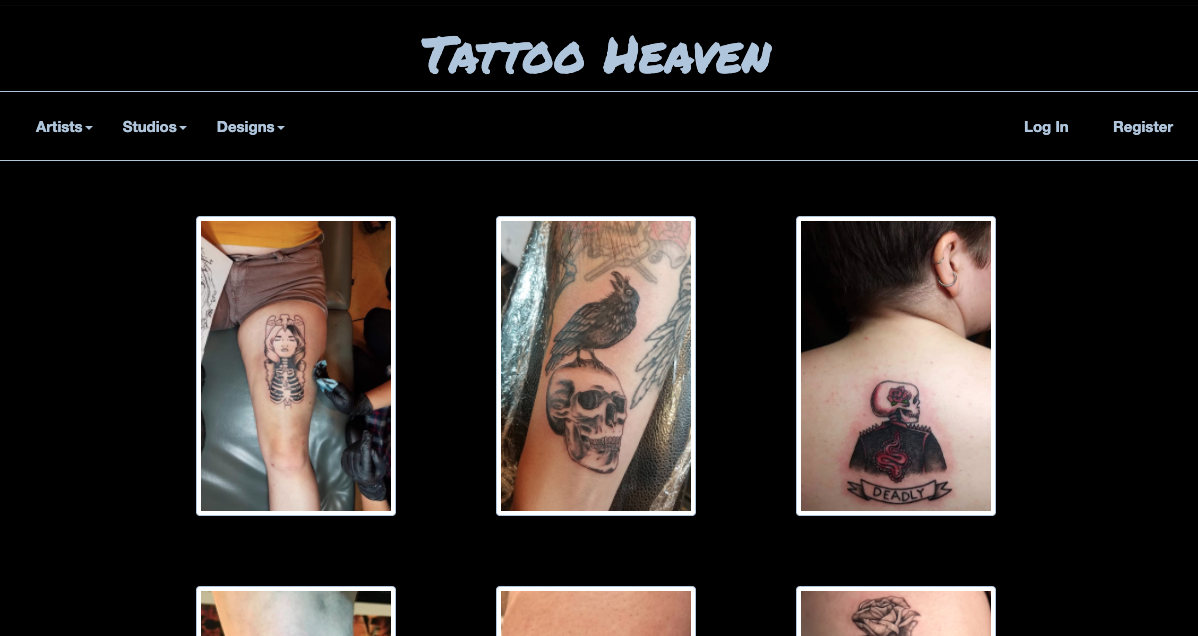
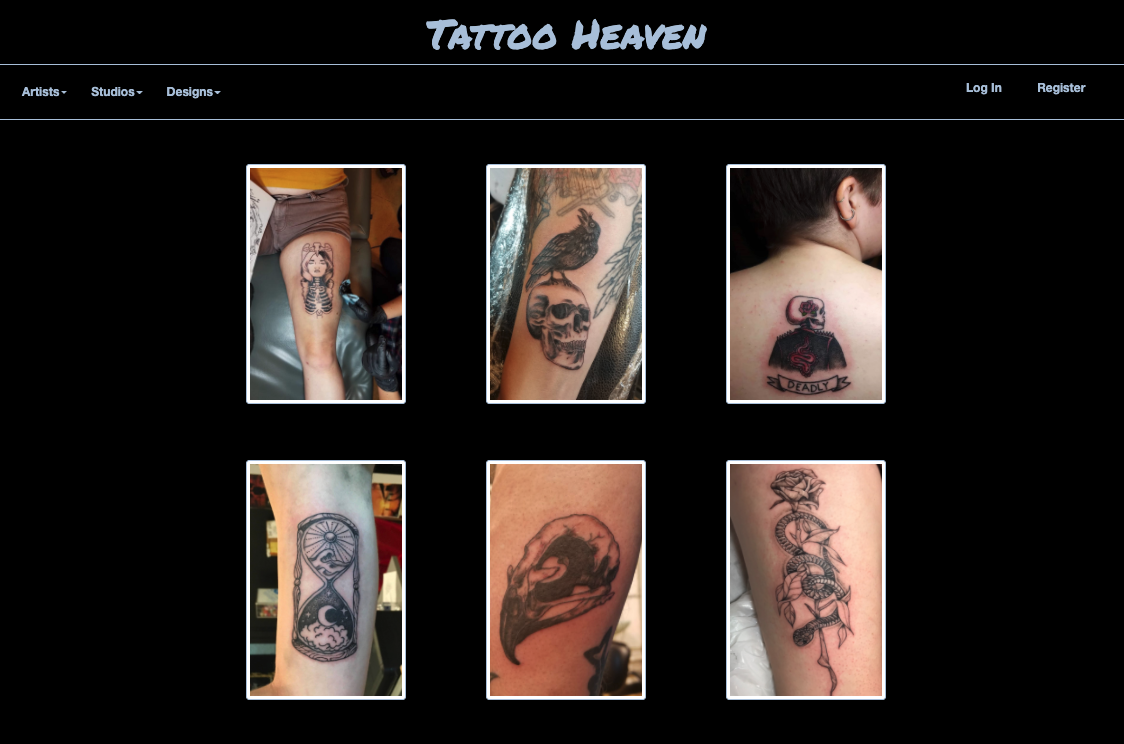
Version one complete

diff --git a/beccakingwebdev.info/index.html b/beccakingwebdev.info/index.html
@@ -3,33 +3,79 @@
   <head>
     <meta charset="utf-8">
     <meta name="viewport" content="width=device-width, initial-scale=1.0">
-    <link rel="stylesheet" href="style.css" type="text/css">
+    <link rel="stylesheet" href="style.css?v=3" type="text/css">
     <link rel="preconnect" href="https://fonts.gstatic.com">
     <link href="https://fonts.googleapis.com/css2?family=Courgette&family=Open+Sans:ital,wght@0,300;0,400;0,600;0,700;1,300;1,400;1,600;1,700&display=swap" rel="stylesheet">
   </head>
   <body>
     <header>
         <h1>Becca King</h1>
-        <h2>Web Developer</h2>
+        <h2>Web Development Portfolio</h2>
+        <a href='./Resume_RebeccaKing.pdf' id='resume'><h3>View Resume</h3></a>
     </header>
     <main>
-        <a href='mailto:rebecca.lynne.king@gmail.com'></a>
-        <a href='./Resume_RebeccaKing.pdf'><h3>Resume</h3></a>
-        <h3>Portfolio</h3>
         <div class='square'>
-          <a href="https://amerimark.com/apparel/shop.html"><iframe src='./images/AmerimarkFilterSort.MP4'></iframe></a>
-          <a href="https://www.amerimark.com/152231.html"><img src='./images/AmerimarkReviews.png' alt='Amerimark Product Review Section'></a>
-          <a href="https://www.amerimark.com/152231.html"><img src='./images/AmerimarkReviewsMobile.png' alt='Amerimark Product Review Section, Mobile'></a>
           <div id='Amerimark'>
-          Full-stack web development using Progress Openedge, JavaScript, CSS, Less, and jQuery.
-          Set up tracking tags in Google Tag Manager and integrated third-party scripts and APIs.
-          Work directly with web designers, information technologists, and E-commerce professionals to bring visions to life.
+            <h4>Amerimark Direct (2020-2021)</h4>
+            <span>Full-stack web development with a focus on the front-end. Use JavaScript, jQuery, CSS, Less, HTML, Progress OpenEdge, Git version control, Google Tag Manager, Google Analytics, API integration. Responsive, accessible design.</span>
+            <br>
+            <br>
+            <span>Implemented interactive, data-rich designs for desktop and mobile across five sites:</span>
+            <br>
+            <ul>
+              <li>Amerimark.com</li>
+              <li>FeelGoodStore.com</li>
+              <li>TimeforMeCatalog.com</li>
+              <li>HarrietCarter.com</li>
+              <li>BeautyBoutique.com</li>
+            </ul>
           </div>
+          <a href="https://amerimark.com/apparel/shop.html"><iframe src='./images/AmerimarkFilterSort.MP4'></iframe></a>
+          <a href="https://www.amerimark.com/152231.html"><img src='./images/AmerimarkReviewsMobile.png' alt='Amerimark Product Review Section, Mobile'></a>
+          <!-- <a href="https://www.amerimark.com/152231.html"><img src='./images/AmerimarkReviews.png' alt='Amerimark Product Review Section' class='full-width'></a>  -->
         </div>
-        <a href='http://golfdomsummit.com/'><img src='./images/Golfdom.png' alt='GolfdomSummit.com Home Page'></a>
-        <a href='https://songbirds.herokuapp.com/'><img src='./images/Songbirds.png' alt='Songbirds application'></a>
-        <a href='https://tattoo-heaven.herokuapp.com/'><img src='./images/Tattoo.png' alt='Tattoo Heaven application'></a>
-        <a href='https://beccaking.github.io/dictionary-app/'><img src='./images/Dictionary.png' alt='Dictionary application'></a>
+        <div class='square'>
+          <div id='NCM'>
+            <h4>North Coast Media (2020)</h4>
+            <span>Full-stack web development using JavaScript, jQuery, CSS, HTML, Git version control, SQL, Google Tag Manager, Google Analytics, API integration, responsive design.</span>
+            <br>
+            <br>
+            <span>Maintained ten WordPress sites, implementing new responsive layouts based on user needs:</span>
+            <br>
+            <ul>
+              <li>MyPMP.net</li>
+              <li>LandscapeManagement.net</li>
+              <li>GPSWorld.com</li>
+              <li>Geospatial-Solutions.com</li>
+              <li>LPGasMagazine.com</li>
+              <li>Golfdom.com</li>
+              <li>AthleticTurf.net</li>
+              <li>PortablePlants.com</li>
+              <li>PitandQuarry.com</li>
+              <li>GolfdomSummit.com</li>
+            </ul>
+          </div>
+          <a href='https://landscapemanagement.net'><img src='./images/LM.png' alt='LandscapeManagment.net Home Page' class='full-width'></a>
+          <a href='http://golfdomsummit.com/'><img src='./images/Golfdom.png' alt='GolfdomSummit.com Home Page' class='half-width'></a>
+        </div>
+        <div class='square'>
+          <div id='GA'>
+            <h4>General Assembly (2019)</h4>
+            <span>Three-month training program in software engineering, covering JavaScript and JavaScript libraries like jQuery, Angular, and React, back-end languages including SQL and PHP. HTML, CSS, and responsive, accessible design.</span>
+            <br>
+            <br>
+            <span>Built several full-stack applications:</span>
+            <br>
+            <ul>
+              <li>Songbird: Music sharing app (peer-programmed)</li>
+              <li>Tattoo Heaven: Tattoo collector's app</li>
+              <li>Inside Merriam-Webster: Word generator app for English language learners</li>
+            </ul>
+          </div>
+          <a href='https://songbirds.herokuapp.com/'><img src='./images/Songbirds.png' alt='Songbirds application' class='half-width'></a>
+          <a href='https://tattoo-heaven.herokuapp.com/'><img src='./images/Tattoo.png?v=2' alt='Tattoo Heaven application' class='half-width'></a>
+          <a href='https://beccaking.github.io/dictionary-app/'><img src='./images/Dictionary.png' alt='Dictionary application' class='half-width'></a>
+       </div>
     </main>
     <footer>
       <img src='./images/IMG_7979.jpeg' alt='Headshot, Rebecca King'>

diff --git a/beccakingwebdev.info/style.css b/beccakingwebdev.info/style.css
@@ -1,5 +1,19 @@
-* {
+body {
+  background: #080808;
+  color: #b5b3af;
   font-family: 'Open Sans', helvetica, arial, sans-serif;
+}
+header {
+  padding: 6%;
+  border-bottom: 1px solid #b5b3af;
+}
+a:hover img {
+  cursor: pointer;
+}
+#resume {
+  color: #b5b3af;
+  text-decoration: none;
+  font-style: italic;
 }
 iframe {
   height: 500px;
@@ -7,10 +21,26 @@ iframe {
 .square {
   display: flex;
   flex-wrap: wrap;
+  justify-content: center;
+  border-bottom: 1px solid #b5b3af;
 }
-#Amerimark {
+.square a {
+  display: block;
+  margin: 5%;
+  text-align: center;
+}
+.half-width {
   width: 50%;
-  padding: 7%;
+}
+.full-width {
+  width: 100%;
+}
+#Amerimark,
+#NCM,
+#GA {
+  width: 100%;
+  padding: 6%;
+  padding-bottom: 0;
 }
 footer img {
   width: 21%;
@@ -20,7 +50,7 @@ footer {
   display: flex;
   align-items: center;
   background: black;
-  color: whitesmoke;
+  color: #b5b3af;
 }
 #footer-bio {
   width: 45%;
@@ -37,8 +67,8 @@ footer {
   text-decoration: none;
 }
 #footer-bio a:hover {
-  filter: brightness(30%);
   color: white;
+  filter: brightness(30%);
 }
 footer #footer-bio img {
   width: 7%;
@@ -47,4 +77,13 @@ footer span {
   padding: 1px;
   margin-left: 2%;
   font-size: 20px;
+}
+@media only screen and (max-width: 750px){
+  .half-width {
+    width: 75%;
+  }
+  #footer-bio {
+    width: 100%;
+    font-size: 88%;
+  }
 }
